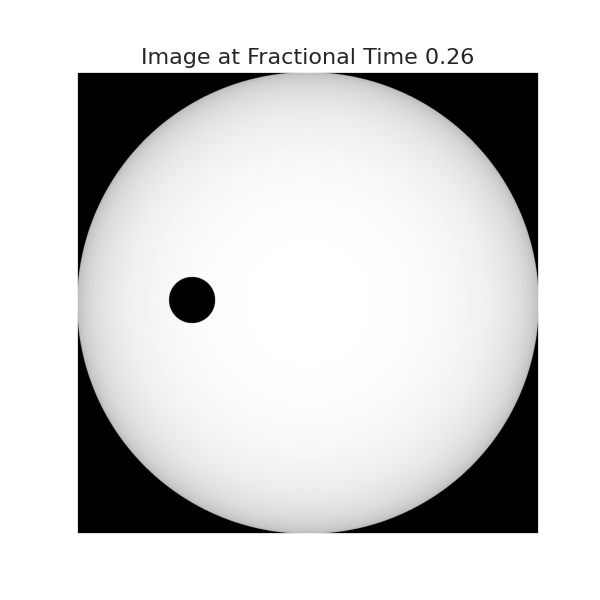
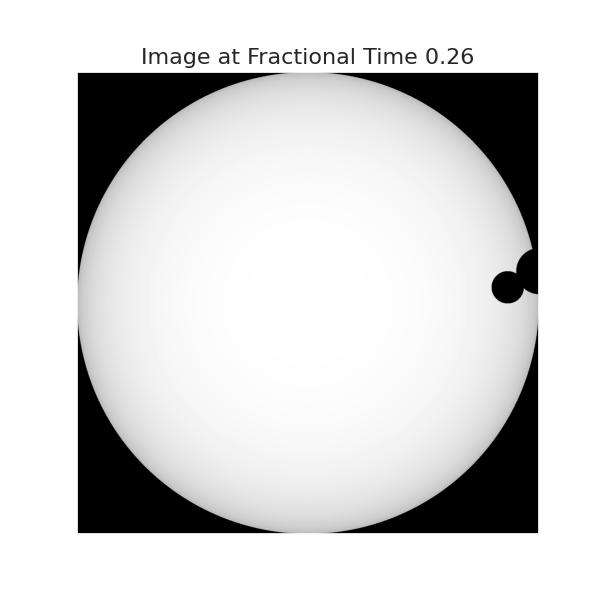
Updated the test system

Changed region(s): [[0.27, 0.45, 0.36, 0.54], [0.81, 0.42, 0.9, 0.51]]

diff --git a/ExoplanetPy/test_v0.py b/ExoplanetPy/test_v0.py
@@ -1,14 +1,11 @@
 from planet import Planet
 from system import System
 
-p1 = Planet(e=0.0, a=8, omega=0, Omega=0, i=89.9, r_p=0.1, first_periastron=0.0)
-p2 = Planet(e=0.0, a=2, omega=0, Omega=0, i=89.9, r_p=0.05, first_periastron=0.0)
-sys = System(star_prop={'Mass': 4}, planet_list=[p1, p2], sort=True)
+p1 = Planet(e=0.0, a=8, omega=0, Omega=0, i=89, r_p=0.1, first_periastron=0.03)
+p2 = Planet(e=0.0, a=4, omega=0, Omega=0, i=89, r_p=0.07, first_periastron=0.52)
+p3 = Planet(e=0.0, a=2, omega=0, Omega=0, i=87, r_p=0.05, first_periastron=0.0)
+sys = System(star_prop={'Mass': 4}, planet_list=[p1, p3, p2], sort=True)
 sys.plot(model='Quadratic', normalise=True)
-sys.visualize(time=0.02, model='Quadratic')
-sys.visualize(time=0.03, model='Quadratic')
-sys.visualize(time=0.04, model='Quadratic')
-sys.visualize(time=0.05, model='Quadratic')
 sys.visualize(time=0.26, model='Quadratic')
 sys.visualize(time=0.27, model='Quadratic')
 sys.visualize(time=0.28, model='Quadratic')
